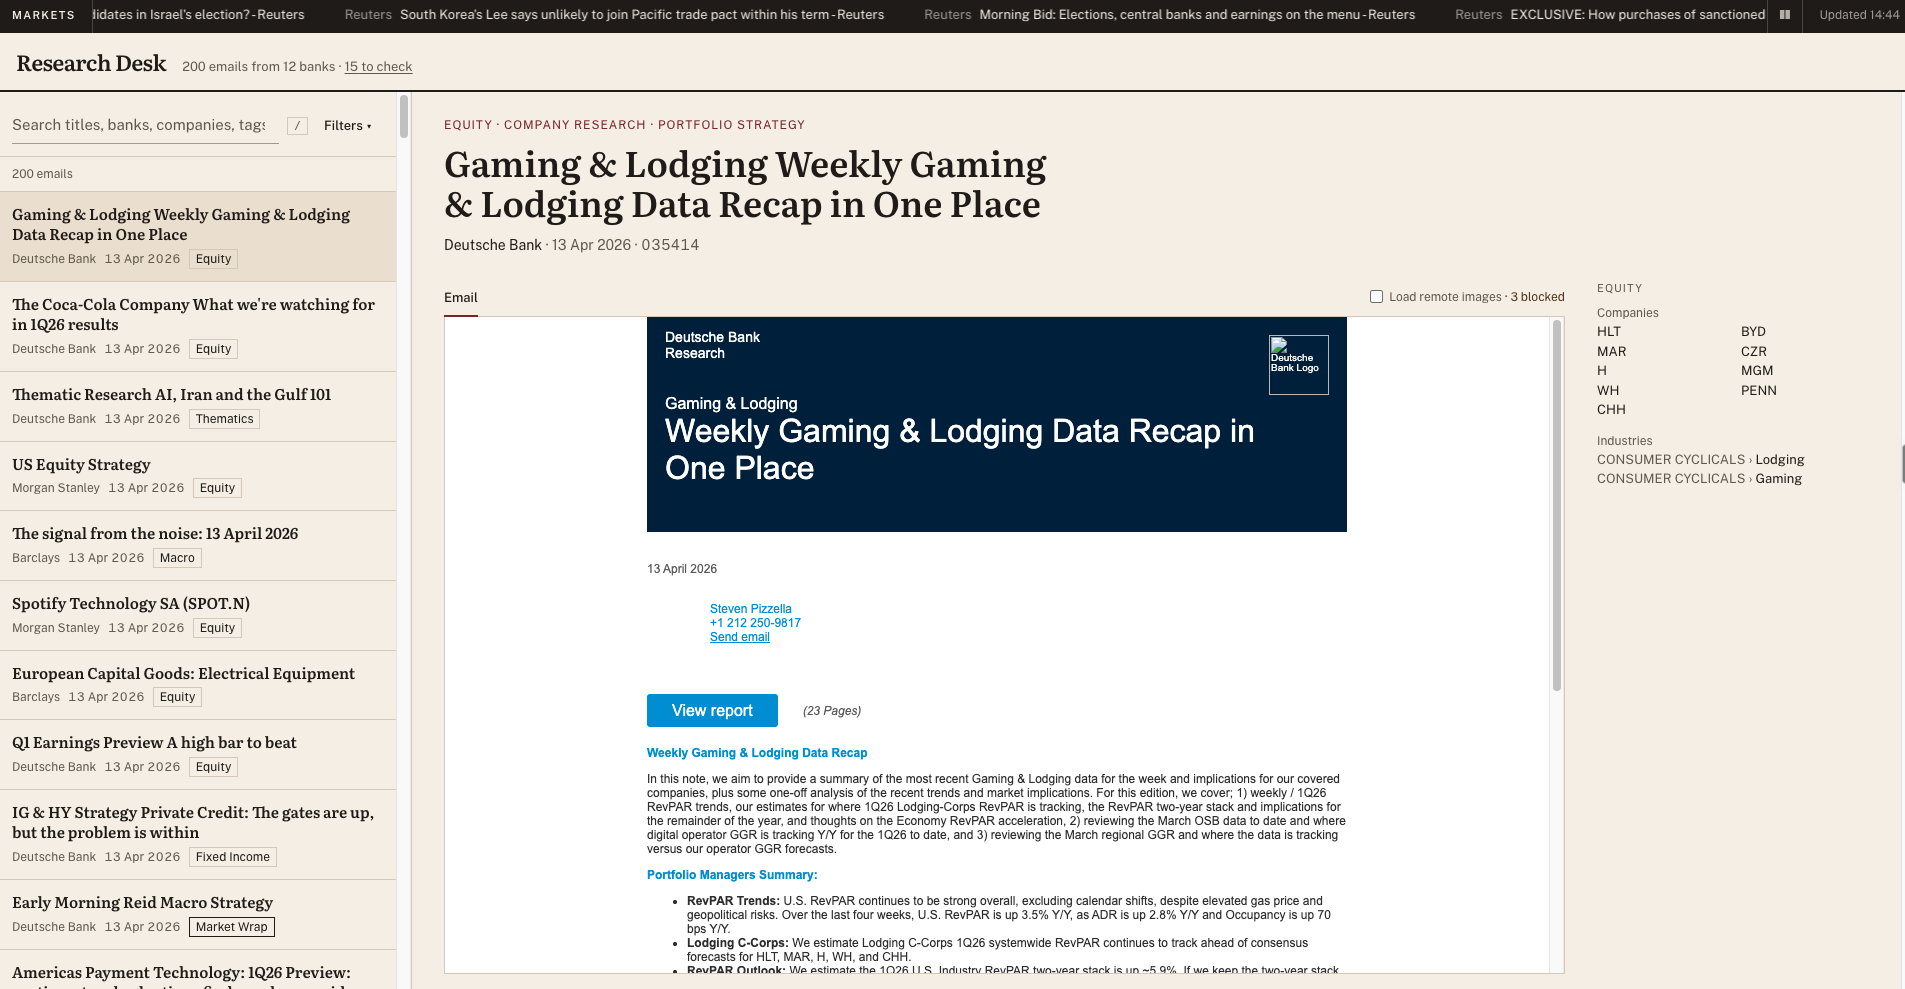
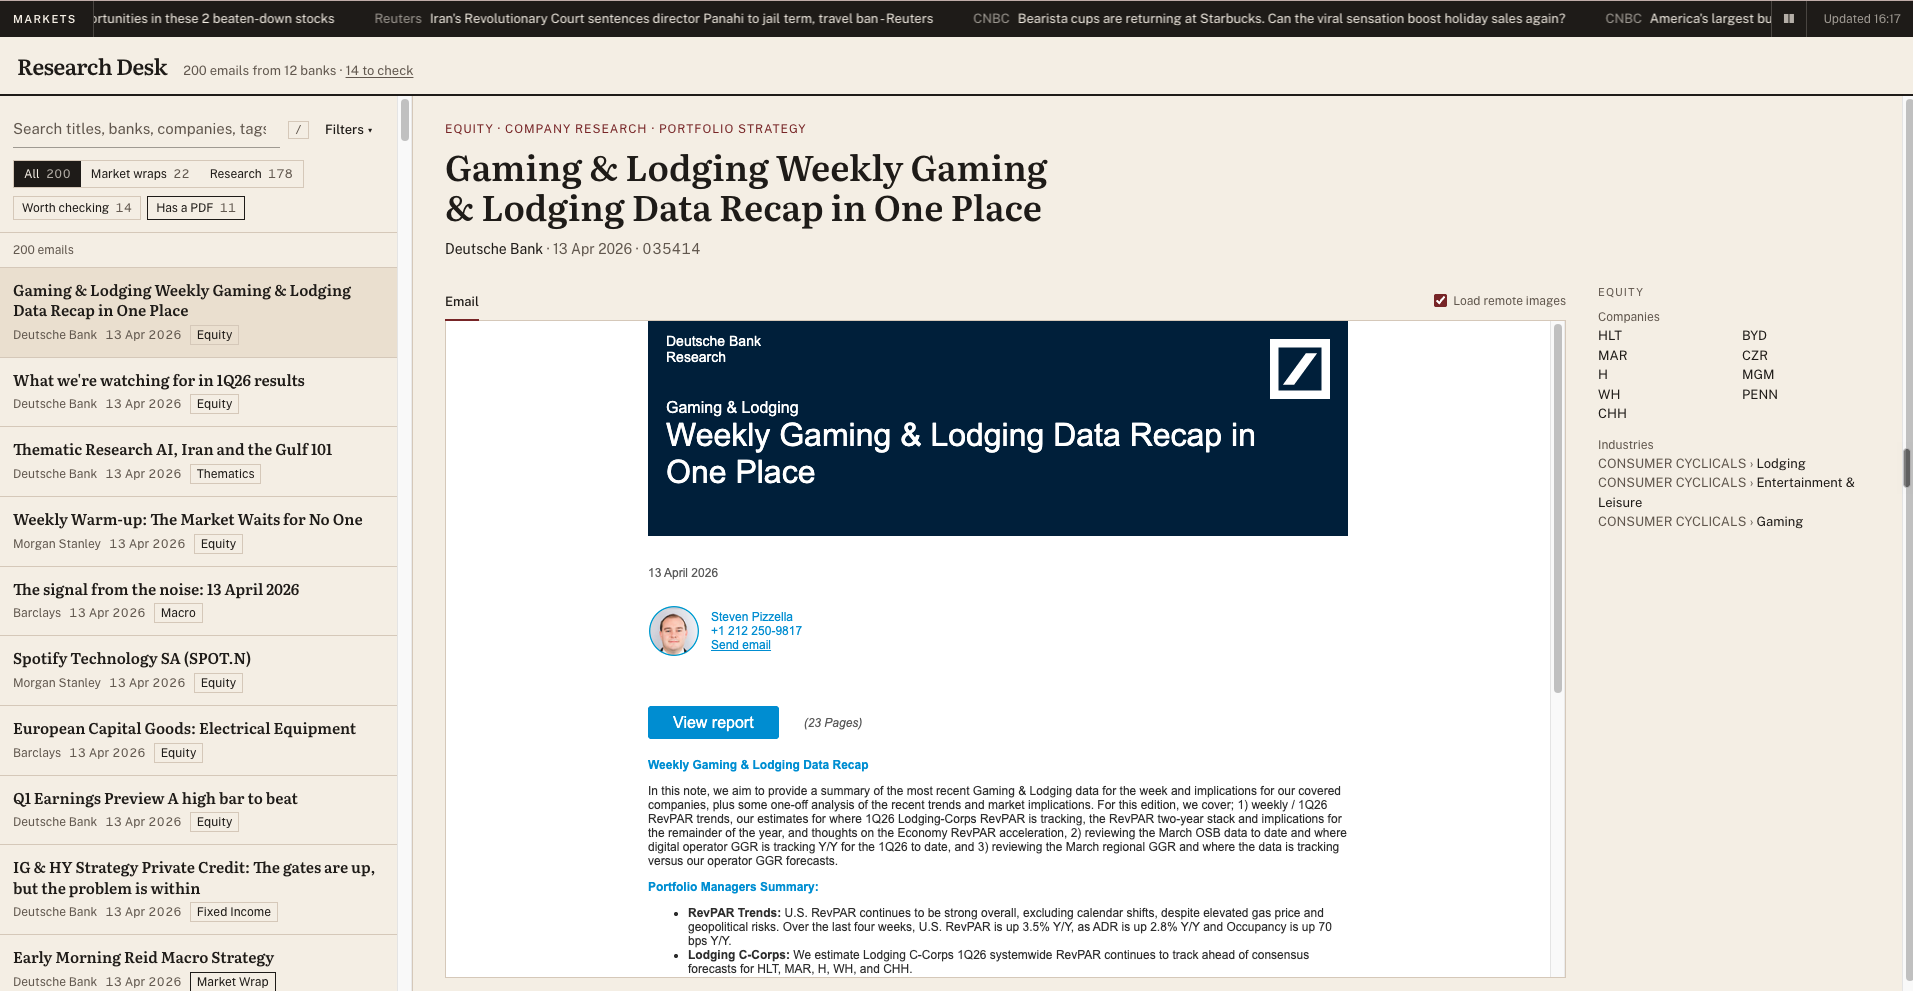
update the dashboard screenshots

diff --git a/README.md b/README.md
@@ -31,7 +31,7 @@ is described step by step in
 
 | Search and filters | Why an email is worth checking |
 | --- | --- |
-| ![Filters for bank, asset class and industry, with a count beside each option](docs/screenshots/filters.png) | ![Why an email is worth checking, in plain words](docs/screenshots/worth-checking.png) |
+| ![Market wraps or research first, then filters by date, bank and asset class, each with a count](docs/screenshots/filters.png) | ![The emails worth checking: a person's decision under Reviewed, and the reason a date is not confirmed](docs/screenshots/worth-checking.png) |
 
 ## How each email is read
 
